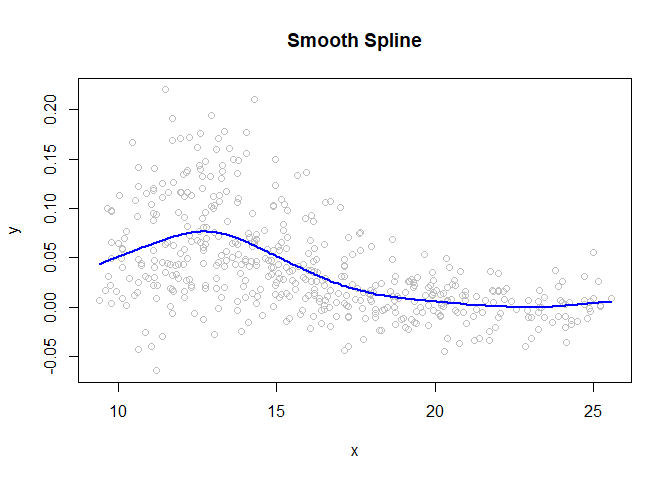
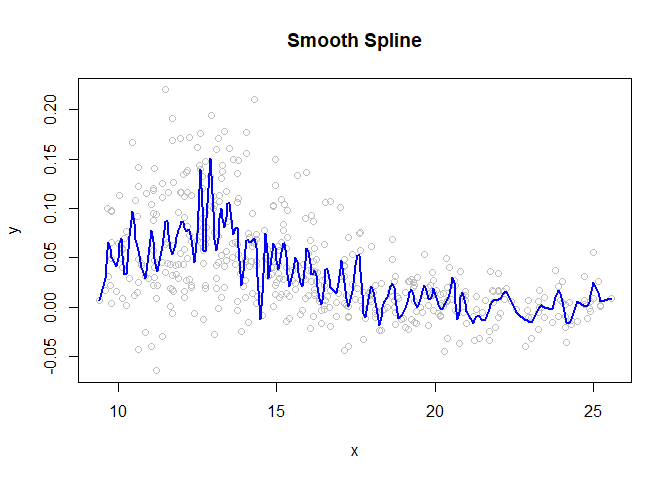
5

Changed region(s): [[0.1562, 0.3438, 0.9062, 0.6875]]

diff --git a/Projects/MLA-on-Bone-Density.md b/Projects/MLA-on-Bone-Density.md
@@ -14,52 +14,16 @@ y <- bone$spnbmd
 library("tidyverse")
 ```
 
-    ## Warning: replacing previous import 'lifecycle::last_warnings' by
-    ## 'rlang::last_warnings' when loading 'tibble'
-
-    ## Warning: replacing previous import 'ellipsis::check_dots_unnamed' by
-    ## 'rlang::check_dots_unnamed' when loading 'tibble'
-
-    ## Warning: replacing previous import 'ellipsis::check_dots_used' by
-    ## 'rlang::check_dots_used' when loading 'tibble'
-
-    ## Warning: replacing previous import 'ellipsis::check_dots_empty' by
-    ## 'rlang::check_dots_empty' when loading 'tibble'
-
-    ## Warning: replacing previous import 'lifecycle::last_warnings' by
-    ## 'rlang::last_warnings' when loading 'pillar'
-
-    ## Warning: replacing previous import 'ellipsis::check_dots_unnamed' by
-    ## 'rlang::check_dots_unnamed' when loading 'pillar'
-
-    ## Warning: replacing previous import 'ellipsis::check_dots_used' by
-    ## 'rlang::check_dots_used' when loading 'pillar'
-
-    ## Warning: replacing previous import 'ellipsis::check_dots_empty' by
-    ## 'rlang::check_dots_empty' when loading 'pillar'
-
-    ## Warning: replacing previous import 'lifecycle::last_warnings' by
-    ## 'rlang::last_warnings' when loading 'hms'
-
-    ## Warning: replacing previous import 'ellipsis::check_dots_unnamed' by
-    ## 'rlang::check_dots_unnamed' when loading 'hms'
-
-    ## Warning: replacing previous import 'ellipsis::check_dots_used' by
-    ## 'rlang::check_dots_used' when loading 'hms'
-
-    ## Warning: replacing previous import 'ellipsis::check_dots_empty' by
-    ## 'rlang::check_dots_empty' when loading 'hms'
-
-    ## -- Attaching packages --------------------------------------- tidyverse 1.3.0 --
-
-    ## v ggplot2 3.3.3     v purrr   0.3.4
-    ## v tibble  3.1.0     v dplyr   1.0.5
-    ## v tidyr   1.1.3     v stringr 1.4.0
-    ## v readr   1.4.0     v forcats 0.5.1
-
-    ## -- Conflicts ------------------------------------------ tidyverse_conflicts() --
-    ## x dplyr::filter() masks stats::filter()
-    ## x dplyr::lag()    masks stats::lag()
+    ## ── Attaching core tidyverse packages ──────────────────────── tidyverse 2.0.0 ──
+    ## ✔ dplyr     1.1.4     ✔ readr     2.1.5
+    ## ✔ forcats   1.0.0     ✔ stringr   1.5.1
+    ## ✔ ggplot2   3.5.1     ✔ tibble    3.2.1
+    ## ✔ lubridate 1.9.3     ✔ tidyr     1.3.1
+    ## ✔ purrr     1.0.2     
+    ## ── Conflicts ────────────────────────────────────────── tidyverse_conflicts() ──
+    ## ✖ dplyr::filter() masks stats::filter()
+    ## ✖ dplyr::lag()    masks stats::lag()
+    ## ℹ Use the conflicted package (<http://conflicted.r-lib.org/>) to force all conflicts to become errors
 
 ``` r
 plot(x, y, col="gray", main="Bone Data")
@@ -88,7 +52,7 @@ crossval.lg <- ls[which.min(crossval.gs)]
 crossval.lg
 ```
 
-    ## [1] 0.0074
+    ## [1] 0
 
 We set our initial lambda value equal to 0.01, but we want to use the
 Generalized Cross Validation method to verify what the optimal value of
@@ -268,7 +232,7 @@ f.pred.lg <- smooth.spline(x, y, lambda=crossval.lg, cv=F)
 f.pred.lg$cv.crit
 ```
 
-    ## [1] 0.00167295
+    ## [1] 0.002239606
 
 ``` r
 l.bs <- crossval.total/100

diff --git a/Projects/The-Intricacies-of-the-Normal-Distribution--example-1-.md b/Projects/The-Intricacies-of-the-Normal-Distribution--example-1-.md
@@ -27,42 +27,6 @@ library(ggpubr)
 
     ## Loading required package: ggplot2
 
-    ## Warning: replacing previous import 'lifecycle::last_warnings' by
-    ## 'rlang::last_warnings' when loading 'tibble'
-
-    ## Warning: replacing previous import 'ellipsis::check_dots_unnamed' by
-    ## 'rlang::check_dots_unnamed' when loading 'tibble'
-
-    ## Warning: replacing previous import 'ellipsis::check_dots_used' by
-    ## 'rlang::check_dots_used' when loading 'tibble'
-
-    ## Warning: replacing previous import 'ellipsis::check_dots_empty' by
-    ## 'rlang::check_dots_empty' when loading 'tibble'
-
-    ## Warning: replacing previous import 'lifecycle::last_warnings' by
-    ## 'rlang::last_warnings' when loading 'pillar'
-
-    ## Warning: replacing previous import 'ellipsis::check_dots_unnamed' by
-    ## 'rlang::check_dots_unnamed' when loading 'pillar'
-
-    ## Warning: replacing previous import 'ellipsis::check_dots_used' by
-    ## 'rlang::check_dots_used' when loading 'pillar'
-
-    ## Warning: replacing previous import 'ellipsis::check_dots_empty' by
-    ## 'rlang::check_dots_empty' when loading 'pillar'
-
-    ## Warning: replacing previous import 'lifecycle::last_warnings' by
-    ## 'rlang::last_warnings' when loading 'hms'
-
-    ## Warning: replacing previous import 'ellipsis::check_dots_unnamed' by
-    ## 'rlang::check_dots_unnamed' when loading 'hms'
-
-    ## Warning: replacing previous import 'ellipsis::check_dots_used' by
-    ## 'rlang::check_dots_used' when loading 'hms'
-
-    ## Warning: replacing previous import 'ellipsis::check_dots_empty' by
-    ## 'rlang::check_dots_empty' when loading 'hms'
-
 ``` r
 ggqqplot(data)
 ```
@@ -129,8 +93,6 @@ Our final test is the Jarque-Bera Test. \## Jarque-Bera Test
 ``` r
 library(tseries)
 ```
-
-    ## Warning: package 'tseries' was built under R version 4.0.5
 
     ## Registered S3 method overwritten by 'quantmod':
     ##   method            from
